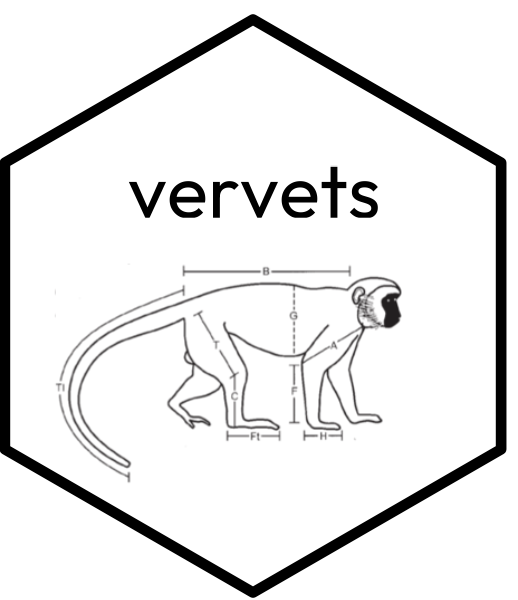
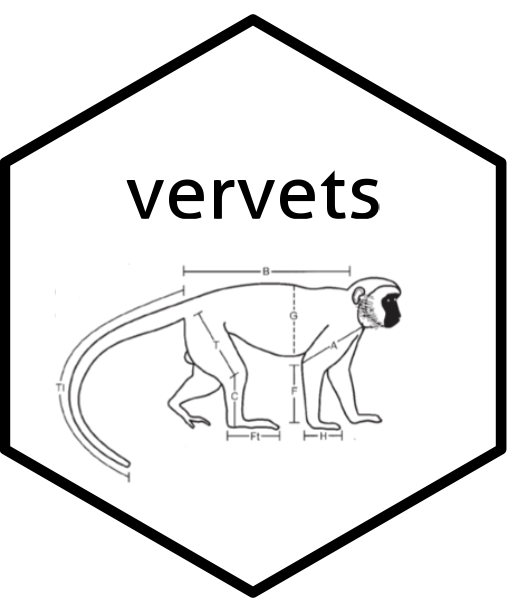
update

Changed region(s): [[0.2471, 0.27, 0.7413, 0.39]]

diff --git a/README.md b/README.md
@@ -1,7 +1,7 @@
 
 <!-- README.md is generated from README.Rmd. Please edit that file -->
 
-# vervets <a href='https://fuzzyatelin.github.io/vervets/'><img src='man/figures/vervets_badge_bw.png' align="right" height="138.5" /></a>
+# vervets <a href='https://fuzzyatelin.github.io/vervets/'><img src='man/figures/vervets_badge_bg.png' align="right" height="138.5" /></a>
 
 <!-- badges: start -->
 <!-- badges: end -->
@@ -112,6 +112,9 @@ IVRC data (and not just *in silico* with the in-package datasets,
 although we hope you’ll do that too). The `vervets` dataset is here to
 help you design and generate potential research proposals that take
 advantage of our extensive sample archives, as well.
+
+For example, by visualizing the sample size of individuals from
+particular collection locations that have shared sample types available:
 
 ![](img/vervsamples_ucla.png)
 
